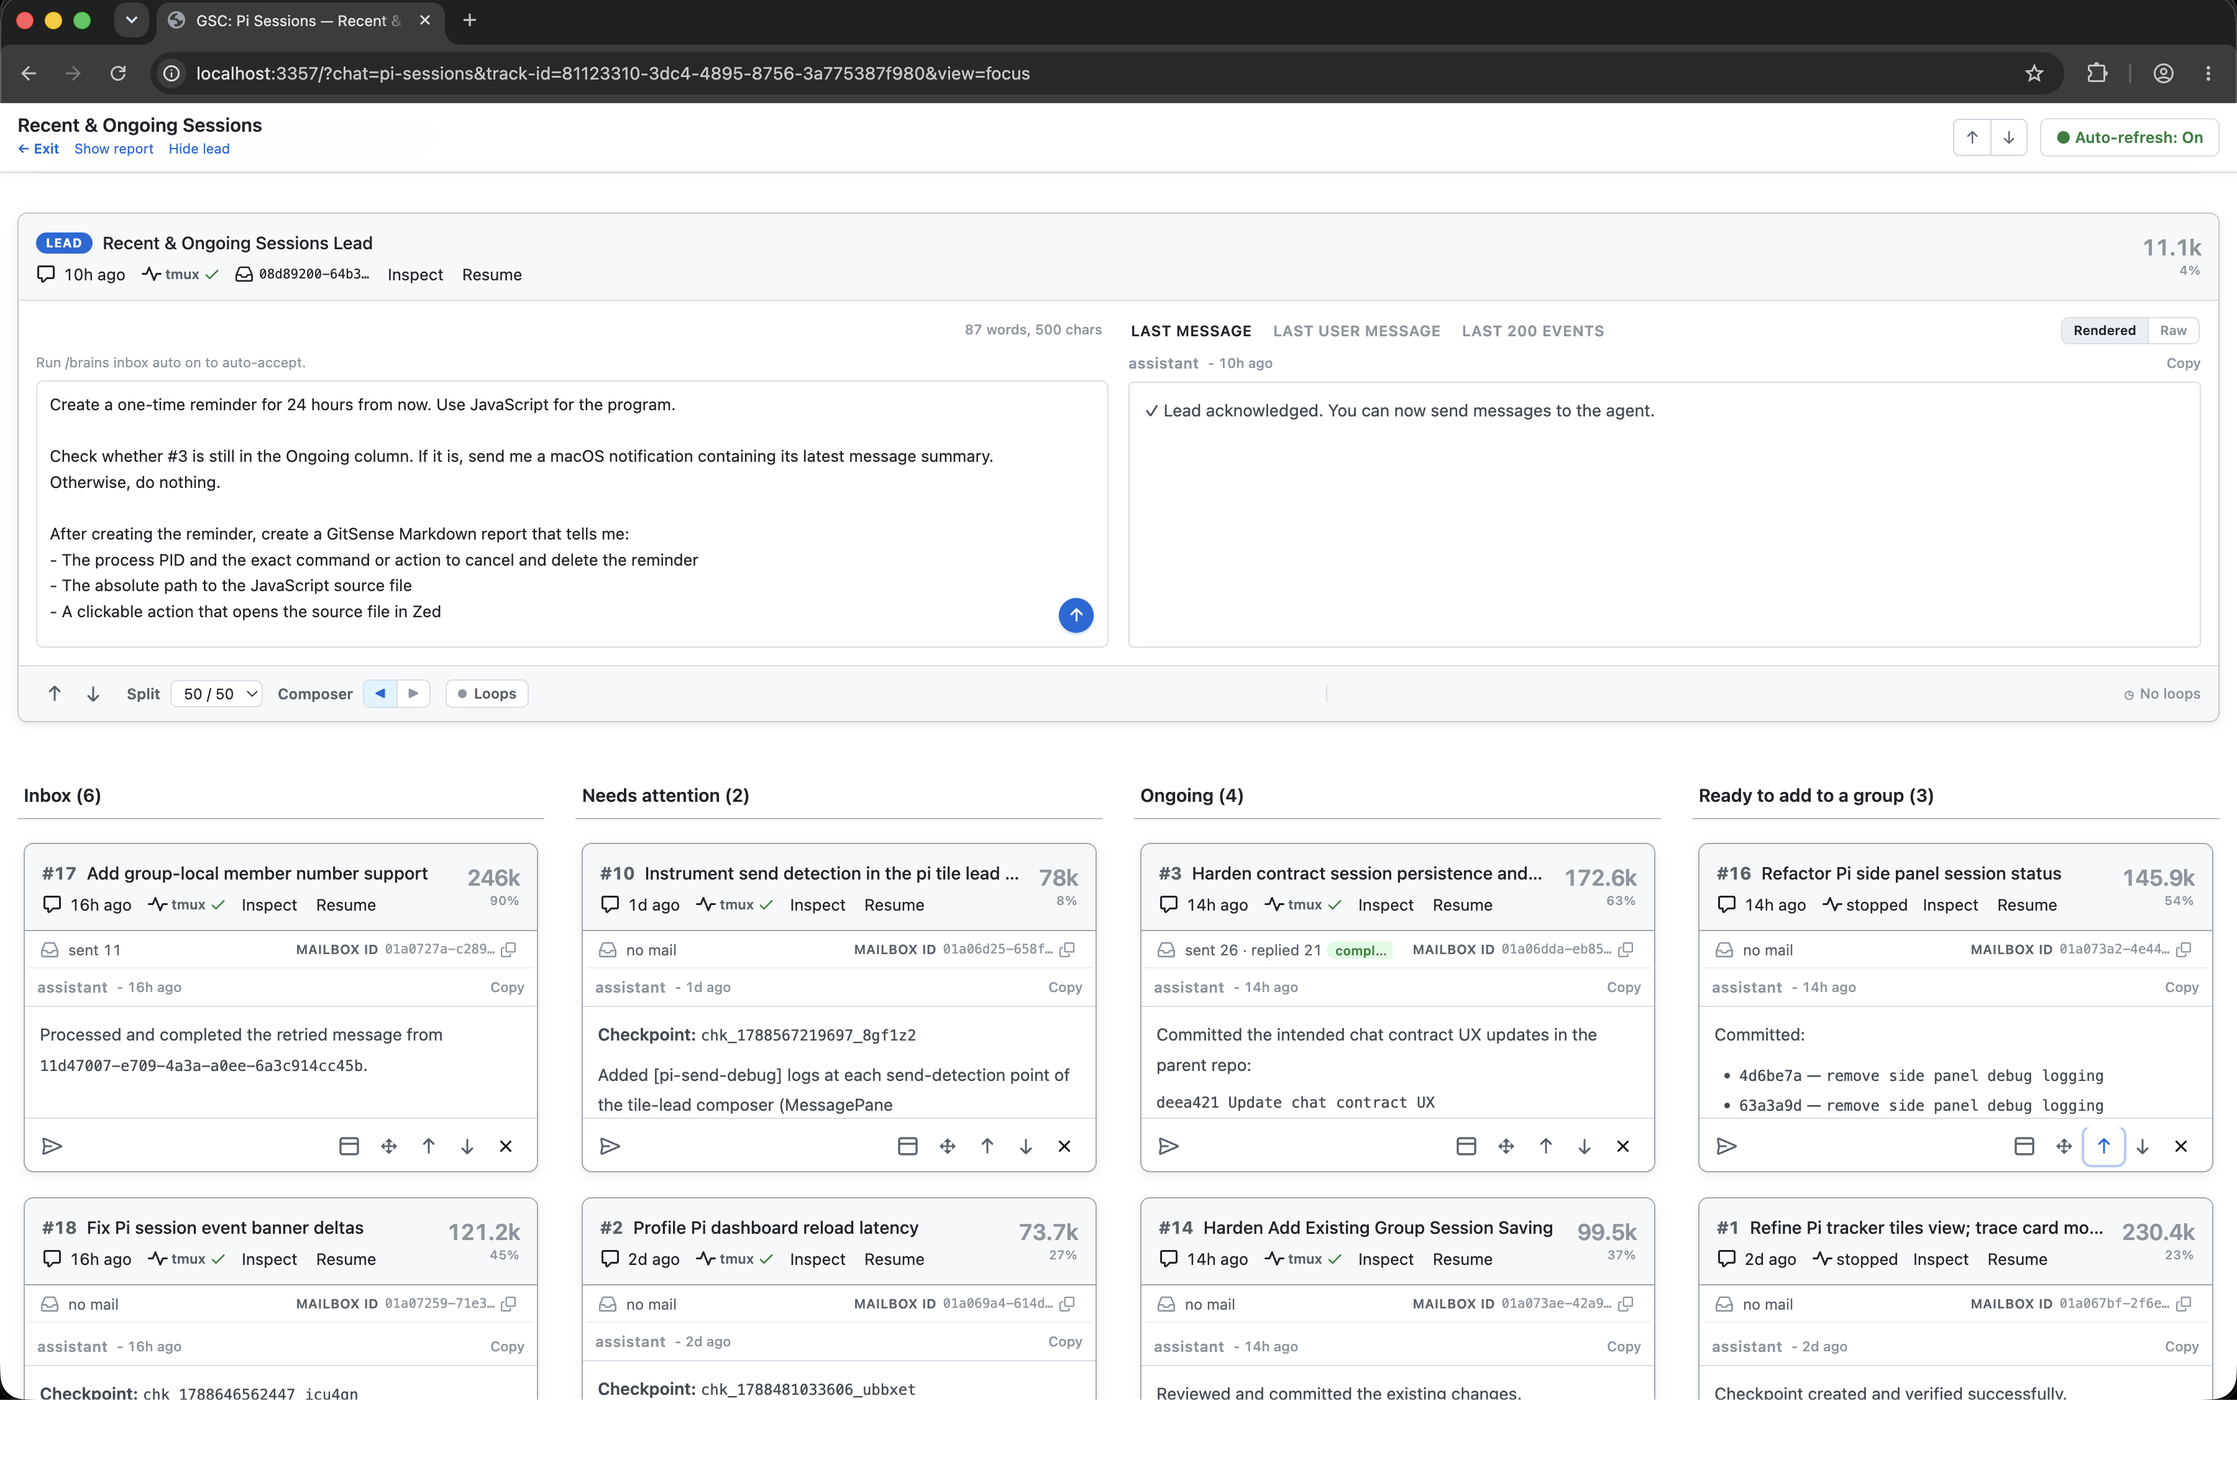
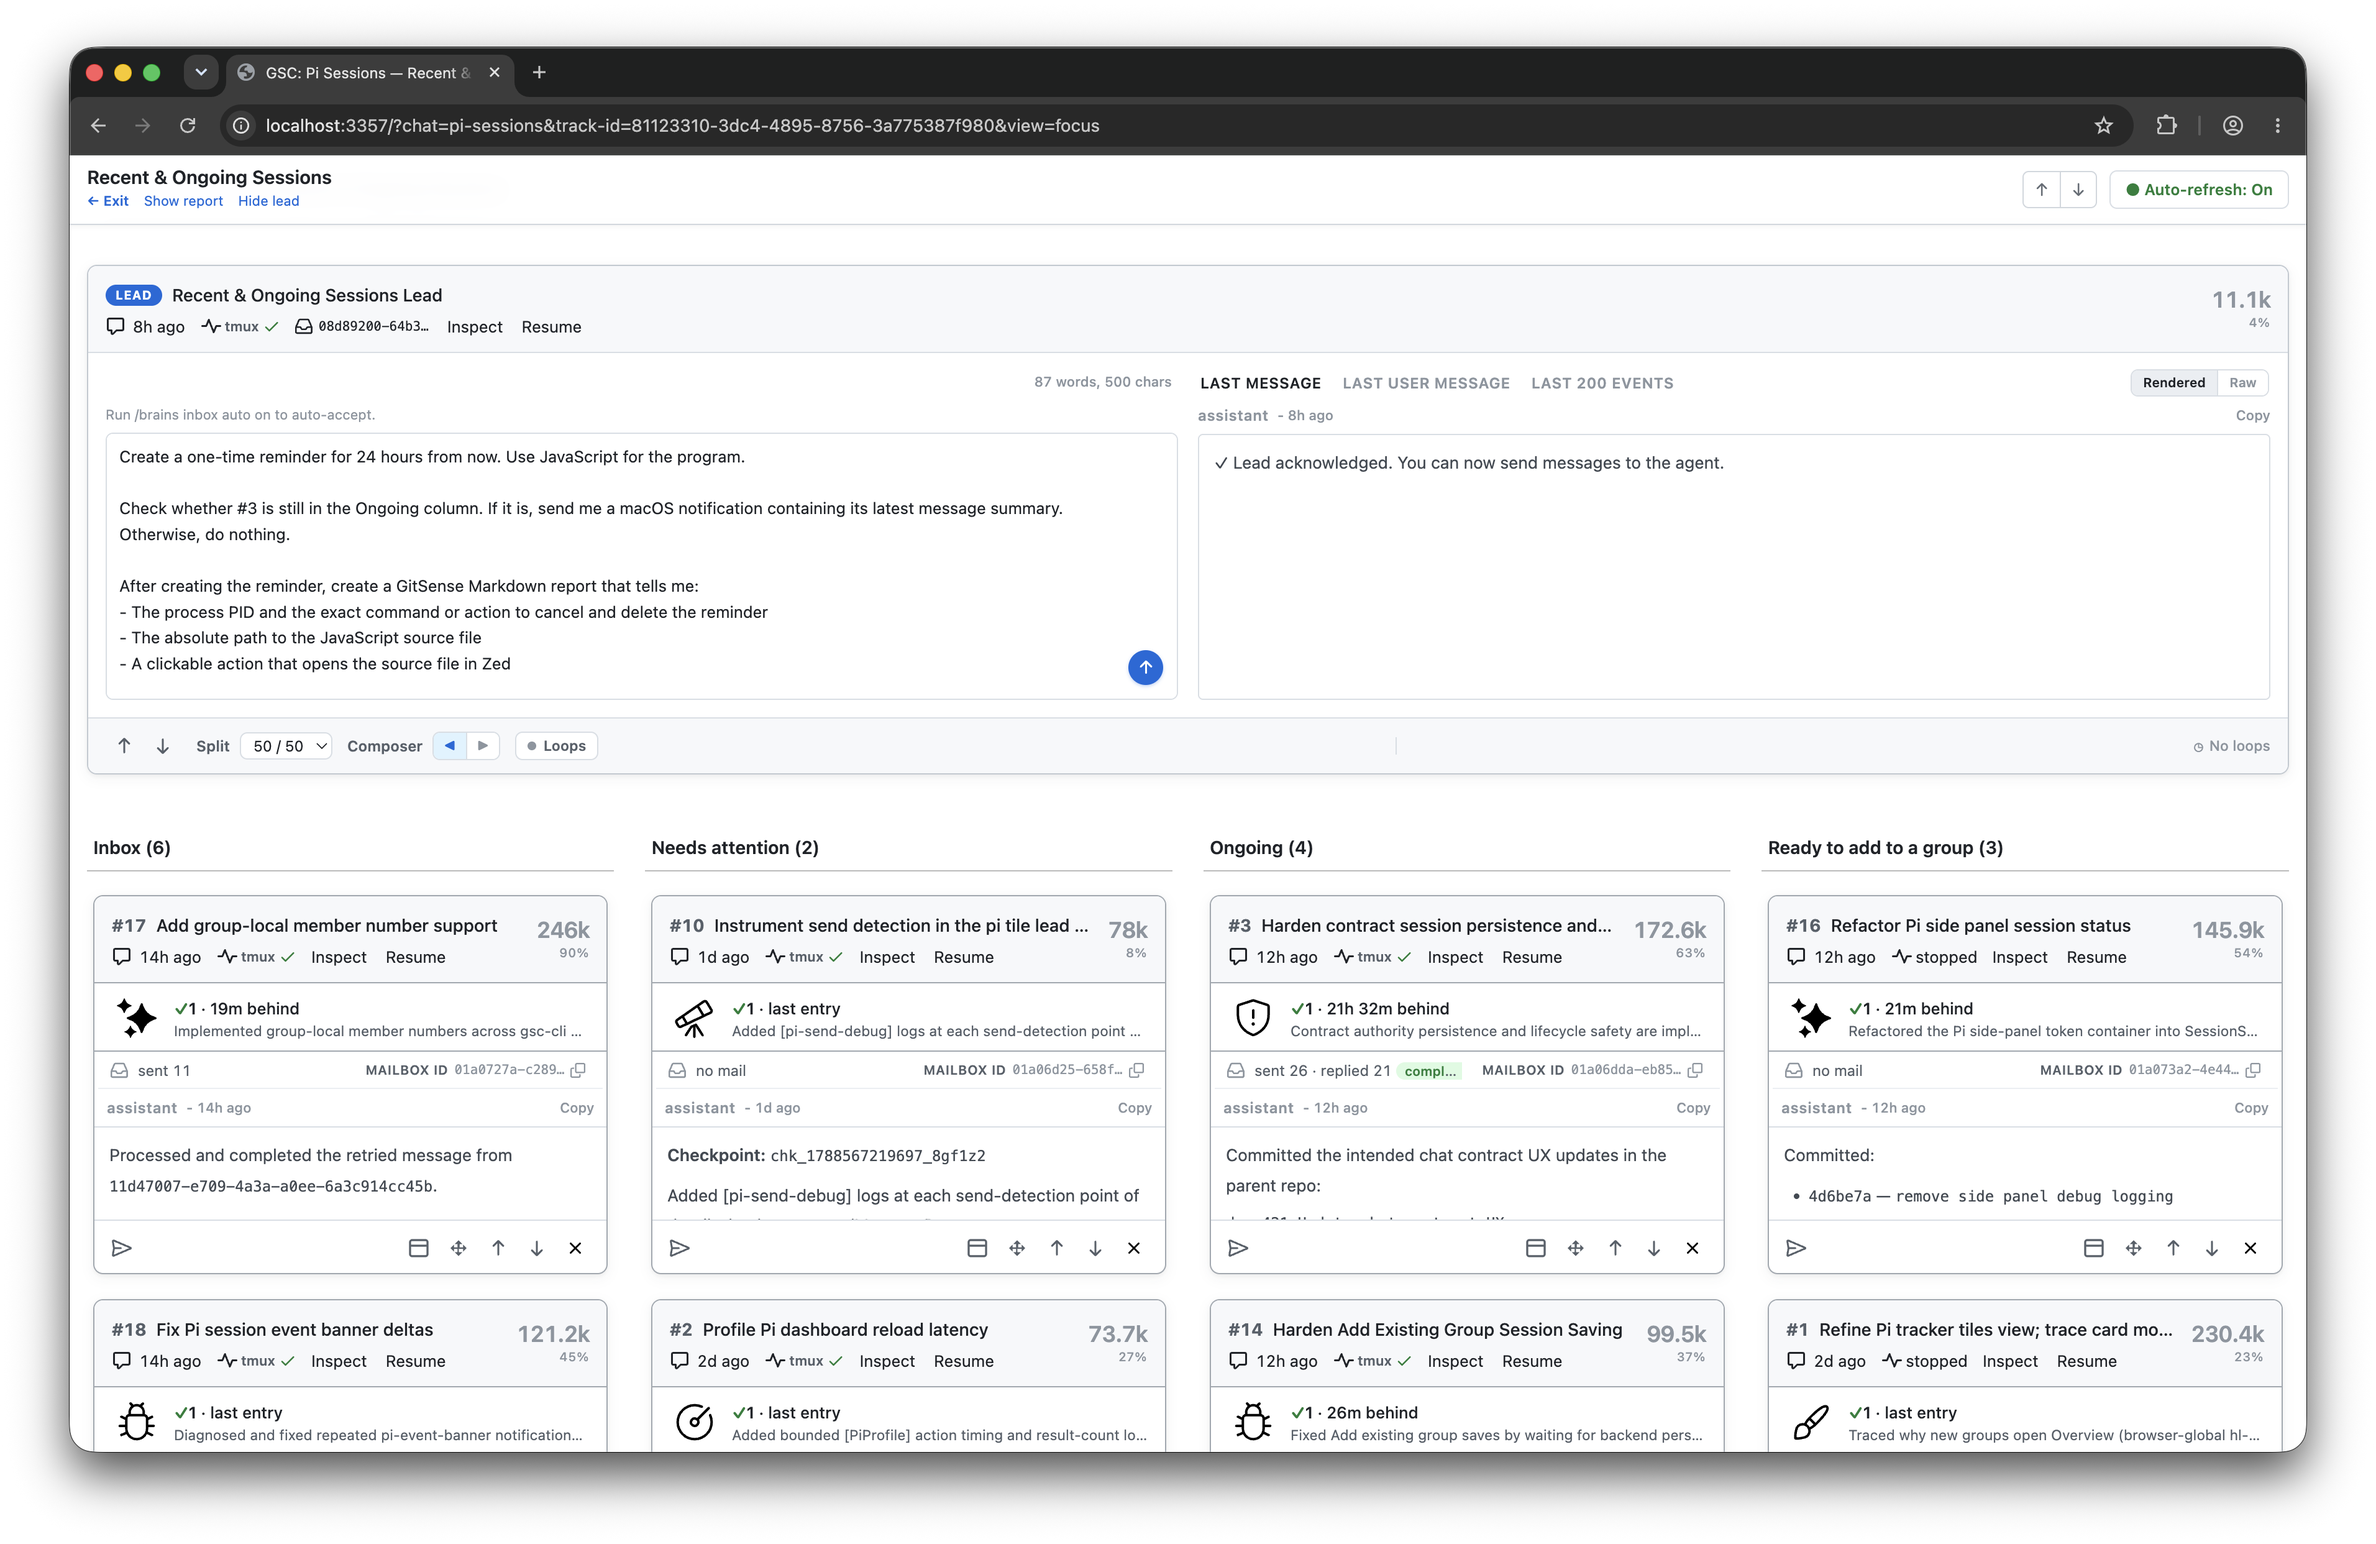
Update README

Changed region(s): [[0.0, 0.0, 1.0, 0.9966], [0.4356, 0.218, 0.7467, 0.3114], [0.4667, 0.4049, 0.4978, 0.4672]]

diff --git a/README-v6.md b/README-v6.md
@@ -21,7 +21,7 @@ they know from Claude, Codex, or any other agent.</p>
 
 <p align="center"><strong>Build dashboards you can talk to.</strong><br>
 Each card is a focused agent with its own context, skills, and knowledge.
-Together, they let you scale observation.</p>
+Together, they scale your insight.</p>
 
 ![A GitSense Chat dashboard whose agent-maintained cards can be queried and guided through conversation.](assets/many-sessions-my-work-recent-activity-tiles.png)
 
